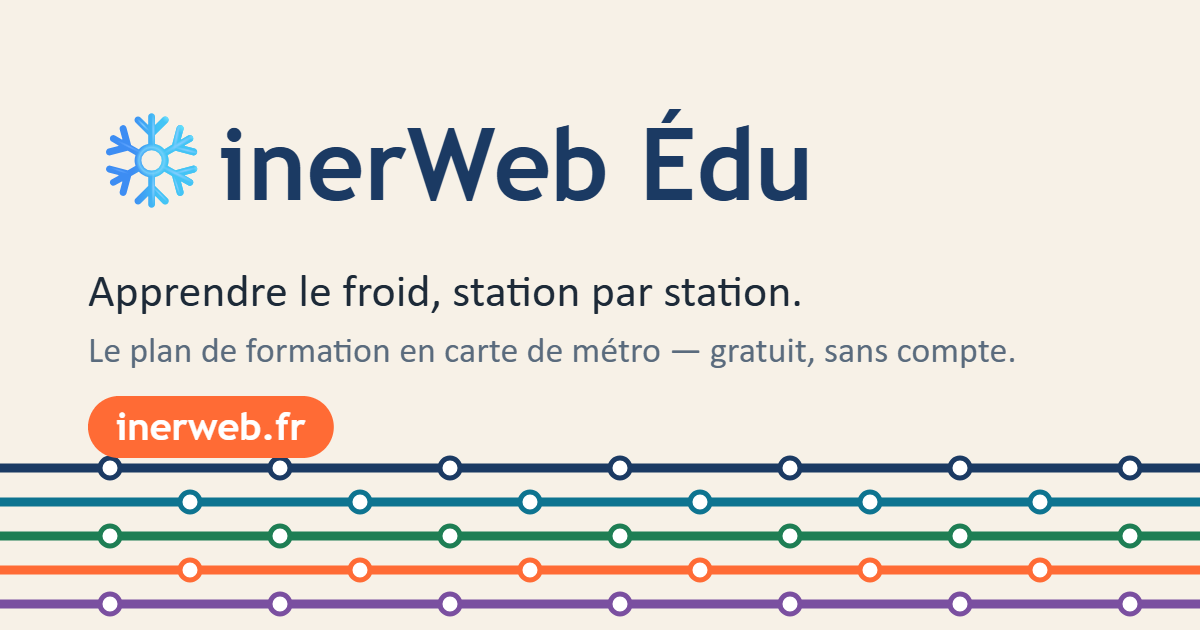
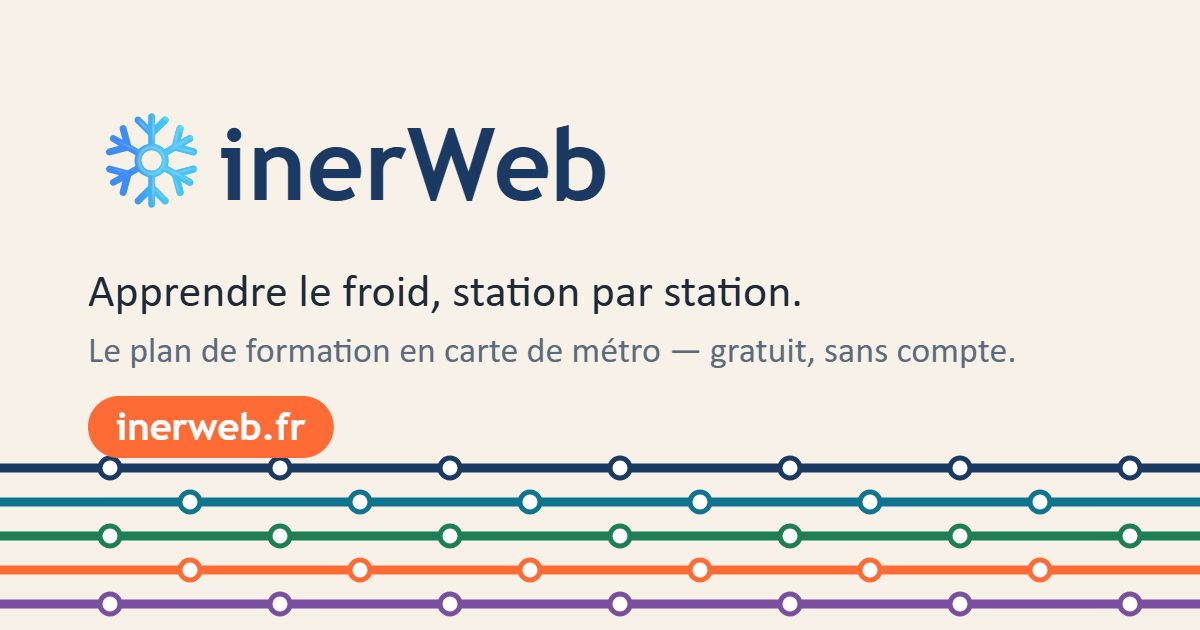
Image de partage sans « Édu », et fiche de reprise du 06/10
icones/og-inerweb-1200x630.png : le mot « Édu » est effacé sur son fond
uni (le reste de l'image est intact) ; le titre lit « inerWeb » au-dessus
du cartouche orange « inerweb.fr ». La balise og:image porte ?v=20261006
pour que les réseaux sociaux reprennent l'image au lieu de leur copie.
REPRISE.md : décisions, outils et pièges de la journée.

Claude-Session: https://claude.ai/code/session_01FFAbgvpT5jwK6ToHCsMn9J

Changed region(s): [[0.5242, 0.181, 0.6783, 0.3317]]

diff --git a/rezotools/index.html b/rezotools/index.html
@@ -10,7 +10,7 @@
 <link rel="canonical" href="https://inerweb.fr/rezotools/">
 <meta property="og:title" content="RézoTools — les calculettes du frigoriste — inerWeb">
 <meta property="og:description" content="Pression, température, puissance, débits, surchauffe, pressostats, téqCO₂ : les outils de terrain d’inerWeb, rangés par besoin.">
-<meta property="og:image" content="https://inerweb.fr/icones/og-inerweb-1200x630.png">
+<meta property="og:image" content="https://inerweb.fr/icones/og-inerweb-1200x630.png?v=20261006">
 <meta property="og:url" content="https://inerweb.fr/rezotools/">
 <!-- ===================================================================
      RÉZOTOOLS — page d'outils (décision F. Henninot, 02/10/2026) : des

diff --git a/quartier/index.html b/quartier/index.html
@@ -11,7 +11,7 @@
 <link rel="canonical" href="https://inerweb.fr/quartier/">
 <meta property="og:title" content="Le quartier technique — inerWeb">
 <meta property="og:description" content="Un quartier en 3D : touchez un appareil, il vous mène à ses cours de froid, de climatisation, de chauffage, d’électricité et de réglementation.">
-<meta property="og:image" content="https://inerweb.fr/icones/og-inerweb-1200x630.png">
+<meta property="og:image" content="https://inerweb.fr/icones/og-inerweb-1200x630.png?v=20261006">
 <meta property="og:url" content="https://inerweb.fr/quartier/">
 <!-- ===================================================================
      LE QUARTIER TECHNIQUE — porte d'entrée « grand public » (F. Henninot,

diff --git a/formation.html b/formation.html
@@ -45,7 +45,7 @@
   <meta property="og:title" content="inerWeb Pilote — Habilitation fluides frigorigènes">
   <meta property="og:description" content="Formation interactive A1, A2, D et E : cours, révisions, exercices et examens blancs dans le moteur inerWeb Pilote.">
   <meta property="og:url" content="https://inerweb.fr/formation.html">
-  <meta property="og:image" content="https://inerweb.fr/icones/og-inerweb-1200x630.png">
+  <meta property="og:image" content="https://inerweb.fr/icones/og-inerweb-1200x630.png?v=20261006">
   <meta name="twitter:card" content="summary_large_image">
   <link rel="stylesheet" href="moteur/charte-edu.css?v=2b6119c5b5">
   <link rel="stylesheet" href="moteur/impression.css?v=2b6119c5b5" media="print">

diff --git a/formateurs.html b/formateurs.html
@@ -10,7 +10,7 @@
 <meta property="og:url" content="https://inerweb.fr/formateurs.html">
 <meta property="og:locale" content="fr_FR">
 <meta property="og:site_name" content="inerweb.fr">
-<meta property="og:image" content="https://inerweb.fr/icones/og-inerweb-1200x630.png">
+<meta property="og:image" content="https://inerweb.fr/icones/og-inerweb-1200x630.png?v=20261006">
 <meta property="og:image:width" content="1200">
 <meta property="og:image:height" content="630">
 <meta property="og:image:alt" content="inerweb.fr — apprendre le froid, station par station, sur un plan de métro.">

diff --git a/metier.html b/metier.html
@@ -10,7 +10,7 @@
 <meta property="og:url" content="https://inerweb.fr/metier.html">
 <meta property="og:locale" content="fr_FR">
 <meta property="og:site_name" content="inerweb.fr">
-<meta property="og:image" content="https://inerweb.fr/icones/og-inerweb-1200x630.png">
+<meta property="og:image" content="https://inerweb.fr/icones/og-inerweb-1200x630.png?v=20261006">
 <meta property="og:image:width" content="1200">
 <meta property="og:image:height" content="630">
 <meta property="og:image:alt" content="inerweb.fr — apprendre le froid, station par station, sur un plan de métro.">

diff --git a/plan.html b/plan.html
@@ -17,7 +17,7 @@
 <link rel="canonical" href="https://inerweb.fr/plan.html">
 <meta property="og:locale" content="fr_FR">
 <meta property="og:site_name" content="inerweb.fr">
-<meta property="og:image" content="https://inerweb.fr/icones/og-inerweb-1200x630.png">
+<meta property="og:image" content="https://inerweb.fr/icones/og-inerweb-1200x630.png?v=20261006">
 <meta property="og:image:width" content="1200">
 <meta property="og:image:height" content="630">
 <meta property="og:image:alt" content="inerweb.fr — apprendre le froid, station par station, sur un plan de métro.">

diff --git a/index.html b/index.html
@@ -26,7 +26,7 @@
 </script>
 <meta property="og:locale" content="fr_FR">
 <meta property="og:site_name" content="inerweb.fr">
-<meta property="og:image" content="https://inerweb.fr/icones/og-inerweb-1200x630.png">
+<meta property="og:image" content="https://inerweb.fr/icones/og-inerweb-1200x630.png?v=20261006">
 <meta property="og:image:width" content="1200">
 <meta property="og:image:height" content="630">
 <meta property="og:image:alt" content="inerweb.fr — apprendre le froid, station par station, sur un plan de métro.">

diff --git a/REPRISE.md b/REPRISE.md
@@ -3,6 +3,29 @@
 > **À LIRE EN PREMIER** dans toute nouvelle session. Tout ce qu'il faut pour reprendre
 > le projet est ici : état, architecture, décisions déjà tranchées, pièges, prochaines étapes.
 
+> ## 06/10 — LE SITE S'APPELLE INERWEB.FR, CHAQUE PAGE MÈNE À SON RÉSEAU, LA CHAÎNE YOUTUBE (branche `claude/jolly-feynman-0jexaa`)
+>
+> Demandes de F. Henninot. **(1) Plus de « Édu »** : le mot « éducation » portait à confusion. La marque inerWeb reste,
+> le site s'appelle **inerweb.fr** ; le cartouche orange du logo porte **« .fr »** (`data-cartouche=".fr"`, texte SVG),
+> « inerWeb Édu » → « inerweb.fr » partout (titres, aria-label, manifeste, JSON-LD). « Éduscol » intact ; les noms de
+> fichiers (`charte-edu.css`, `logo-inerweb-edu.svg`) et les clés de stockage (`edu_volet_replie`) ne changent pas.
+> **(2) Retour accueil + réseau sur toute page** : `moteur/retour-accueil.js` pose « [logo] › [réseau] » quand la page
+> n'a pas déjà ses deux liens ; `build/retour-accueil.mjs` écrit le réseau sur la balise (`data-reseau-href`,
+> `data-reseau-nom`) — un film (studio/, voyage/, `_regules-commun/films/`, `film-…/`) → Studio, sinon le catalogue
+> des stations, sinon le dossier du réseau ; `--reseaux` liste le rattachement (330 pages sans réseau : QR des livres
+> `e/ f/ h/`, pages générales). Sur téléphone, la barre descend sous les commandes fixées des lecteurs de films.
+> **(3) Actualités** : le volet ne montre plus que les **trois dernières actualités** (avant : trois dates × tous leurs
+> titres, onze le 4/10). **(4) YouTube** « inerWeb FR » : `window.INERWEB_YOUTUBE` dans `moteur/reseaux.js` (adresse
+> permanente `/channel/UC…`, le nom court `@fh4681` peut changer), champ `externe` de la vignette Studio, menu et volet
+> de l'accueil, bouton sur `studio/index.html` — `git grep UCeeJMhgiuPSWekxoH-EexQA` pour tout changer d'un coup.
+> **🔴 Pièges** : (1) les dossiers GÉNÉRÉS (hydrometro, cartoclim, electrorezo, cuivrezo, hocourant, r408, formarezo,
+> cablage-virtuel, legislation…) ont été renommés ICI ; leurs ateliers portent encore « Édu » : **la prochaine
+> livraison le réintroduit** tant que l'atelier n'est pas corrigé à son tour ; (2) après toute livraison, relancer
+> `node build/retour-accueil.mjs` (il pose aussi le réseau) ; (3) l'image `icones/og-inerweb-1200x630.png` et les
+> affiches peintes peuvent encore montrer « Édu » dans leurs pixels. Constaté sans y toucher : `film-ozone/support.js`
+> lève une erreur JS au chargement (déjà là avant), et `build/animations.mjs --verifier` relève 358 clés périmées
+> (déjà là avant).
+
 > ## 04/10 — « ANIMER LES RÉSEAUX » : LES RÉSEAUX STATIQUES S'ANIMENT (`cb9a6709` → `5a14b449`)
 >
 > Un chef d'orchestre seul acteur git (worktree `pilote-fluides-superviseur-reseaux`), une vingtaine de sous-agents
